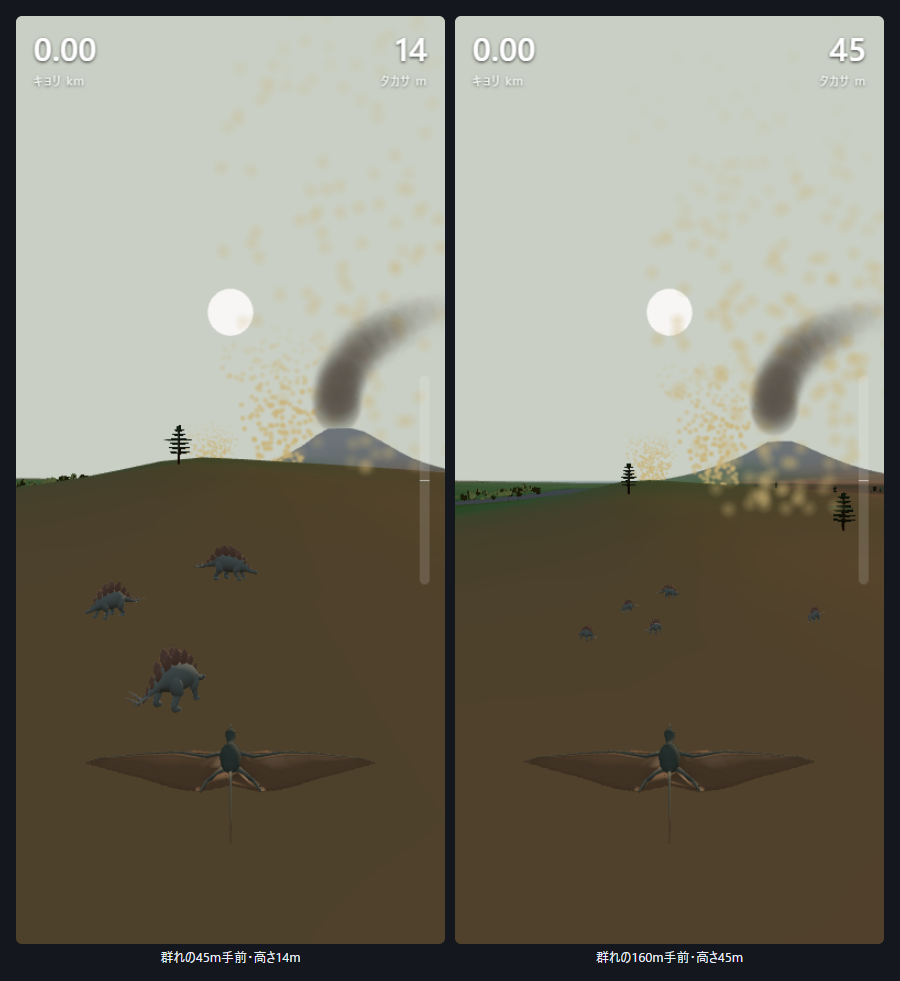
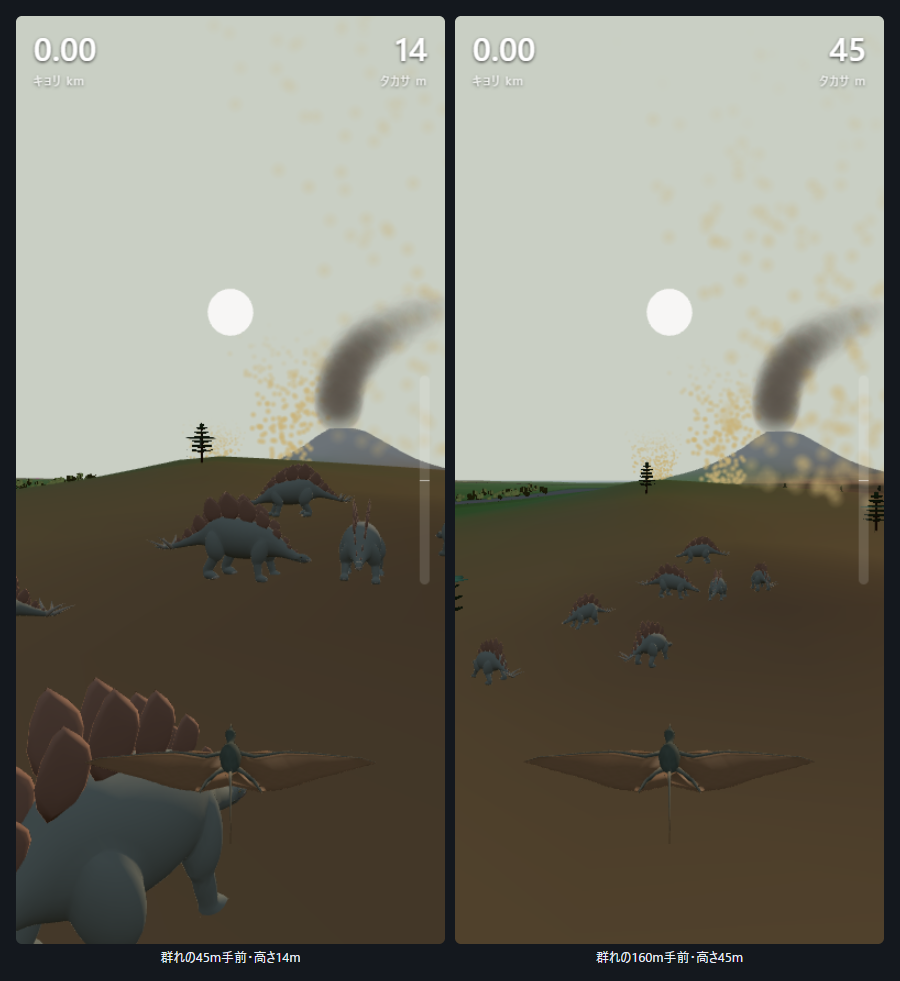
ステゴサウルスを2.5倍にして、飛行高度から見えるようにした
所長「ステゴサウルスいないんやけど」。群れの場所へ自分で移動して確認しただけで、
普通に飛んだときに見えるかを測っていなかった。

- 実測(5走行): 一番近づいても202〜1233m、実寸では画面3〜21px、8px以上で見える時間は0〜40秒
- 所長の選択で2.5倍(全長17.5m)。歩く速さも2.5倍にして足の滑りを防ぐ。見える時間 2〜152秒
- 群れは5〜10頭、広がり80m
- 途中で試した「群れの土ぼこり」は上昇気流の柱と紛らわしいので削除。
  代わりに群れのいる地面を踏み荒らされた土の色に
- tools/stego-visibility.mjs: 描画せず、飛んだ経路と群れの位置関係で見え方を測る

diff --git a/src/scene.js b/src/scene.js
@@ -50,14 +50,17 @@ class Ground {
     this.mesh.frustumCulled = false;
     this.snap = null;
   }
-  update(px, py) {
+  update(px, py, herds = []) {
     const cx = Math.round(px / this.cell) * this.cell, cy = Math.round(py / this.cell) * this.cell;
-    if (this.snap && this.snap[0] === cx && this.snap[1] === cy) return false;
+    const herdKey = herds.map(h => Math.round(h.cx) + ',' + Math.round(h.cy)).join('|');
+    if (this.snap && this.snap[0] === cx && this.snap[1] === cy && this.herdKey === herdKey) return false;
+    this.herdKey = herdKey;
     this.snap = [cx, cy];
     const t = this.t, half = this.size / 2, s = this.seg, hole = this.inner / 2;
     // ジュラ紀には草原がない。乾いた所は赤茶の土、湿った所はシダの緑、水辺は泥(黄土色の「草原」に見えていた)
     const dry = new THREE.Color(0xb0764a), wet = new THREE.Color(0x4f7d38), sand = new THREE.Color(0x7a6448);
     const canopyDry = new THREE.Color(0x22381f), canopyWet = new THREE.Color(0x3a5524);
+    const trampled = new THREE.Color(0x6d5238);
     const c = new THREE.Color();
     for (let j = 0; j <= s; j++) for (let i = 0; i <= s; i++) {
       const k = (j * (s + 1) + i) * 3;
@@ -75,6 +78,12 @@ class Ground {
       if (gv > 0.47 && z > t.water + 2) {
         const k = Math.min(1, (gv - 0.47) / 0.08) * 0.7;
         c.lerp(m < 0.5 ? canopyDry : canopyWet, k);
+      }
+      // 群れがいる所は踏み荒らされた土。上空から「あそこに何かいる」と分かる目印
+      // (土ぼこりで示したら上昇気流の柱と見分けがつかなかった)
+      for (const hd of herds) {
+        const dh = Math.hypot(x - hd.cx, y - hd.cy);
+        if (dh < 95) { c.lerp(trampled, 0.75 * (1 - dh / 95) ** 0.6); break; }
       }
       const grain = 0.92 + 0.18 * t.grain(x, y);   // 近景の手がかり(速度と向きが読める)。暗く沈めすぎない
       c.multiplyScalar(grain);
@@ -439,6 +448,7 @@ class Stegos {
   constructor(terrain, scene) {
     this.t = terrain; this.scene = scene; this.herds = new Herds(terrain);
     this.proto = null; this.clips = null; this.pool = []; this.byId = new Map(); this.ready = false;
+
   }
   async load(url) {
     const gltf = await new GLTFLoader().loadAsync(url);
@@ -460,8 +470,8 @@ class Stegos {
     return { group, model, mixer, idle, walk, animal: null, state: 'idle' };
   }
   update(px, py, dt) {
-    if (!this.ready) return;
     this.herds.update(px, py, dt);
+    if (!this.ready) return;                       // 土ぼこりはモデルの読み込み前から出す
     const list = this.herds.near(px, py, HERD.show).slice(0, 18);
     const keep = new Set(list.map(e => e.a.id));
     // 見えなくなった個体の器を空ける
@@ -476,7 +486,7 @@ class Stegos {
       e.group.visible = true;
       e.group.position.set(SX * a.x, this.t.height(a.x, a.y), a.y);
       e.group.rotation.set(0, -a.head, 0);
-      e.group.scale.setScalar(a.s);
+      e.group.scale.setScalar(a.s * HERD.scale);
       if (e.state !== a.state) {
         const to = a.state === 'walk' ? e.walk : e.idle, from = a.state === 'walk' ? e.idle : e.walk;
         if (e.state === null) { from.stop(); to.reset().play(); }
@@ -654,8 +664,9 @@ export class View {
     return [(q.x + 1) / 2 * s.x, (1 - (q.y + 1) / 2) * s.y];
   }
   update(g, dt, sun) {
-    this.far.update(g.x, g.y);
-    this.near.update(g.x, g.y);
+    const herdCenters = this.stegos ? [...this.stegos.herds.herdsNear(g.x, g.y, 9000)] : [];
+    this.far.update(g.x, g.y, herdCenters);
+    this.near.update(g.x, g.y, herdCenters);
     this.water.position.x = SX * g.x; this.water.position.z = g.y;
     this.forest.update(g.x, g.y);
     this.plumes.update(g.x, g.y, dt);

diff --git a/src/world.js b/src/world.js
@@ -302,8 +302,9 @@ export class Vegetation {
 export const HERD = {
   cell: 3000,         // 区画の大きさ [m]
   chance: 0.9,        // 区画に群れがいる確率
-  min: 3, max: 6,     // 群れの頭数
-  spread: 45,         // 群れの広がり [m]
+  min: 5, max: 10,    // 群れの頭数(小さい群れは上空から見つけられなかった)
+  spread: 80,         // 群れの広がり [m]
+  scale: 2.5,         // 見せる大きさ(全長7m -> 17.5m)。実寸だと飛行高度から数ピクセルで見えなかった
   walk: 0.21,         // 歩きの動き1回ぶんの前進の速さ [m/s](AstraのWalkクリップの値)
   timeScale: 3.0,     // 歩きの動きの再生速度。前進の速さも同じ倍率にする(足が滑らないように)
   active: 1800,       // この距離の群れだけ動かす [m]
@@ -349,7 +350,9 @@ export class Herds {
     }
   }
   update(px, py, dt) {
-    const t = this.t, v = HERD.walk * HERD.timeScale;
+    const t = this.t;
+    // 大きくすると歩幅も伸びるので、歩く速さも同じ倍率にしないと足が地面を滑る
+    const vOf = a => HERD.walk * HERD.timeScale * HERD.scale * a.s;
     for (const herd of this.herdsNear(px, py, HERD.active)) {
       for (const a of herd.animals) {
         a.timer -= dt;
@@ -374,6 +377,7 @@ export class Herds {
         while (e > Math.PI) e -= 2 * Math.PI;
         while (e < -Math.PI) e += 2 * Math.PI;
         a.head += Math.max(-0.1 * dt, Math.min(0.1 * dt, e));        // ゆっくり向きを変える(速いと足が横に滑る)
+        const v = vOf(a);
         const nx = a.x + Math.sin(a.head) * v * dt, ny = a.y + Math.cos(a.head) * v * dt;
         const h = t.height(nx, ny);
         if (h < t.water + 1.2 || t.slope(nx, ny, 10) > 0.25 || Math.hypot(a.tx - a.x, a.ty - a.y) < 3) {

diff --git a/src/main.js b/src/main.js
@@ -154,6 +154,7 @@ window.__slice = {
   forestReady: () => view.forest.ready,
   stegoReady: () => view.stegos.ready,
   herdTune: o => Object.assign(HERD, o),
+  herdScale: () => HERD.scale,
   // 検査用: 描いている個体の、骨の位置(世界座標)・状態・地面の高さ
   stegos: () => view.stegos.pool.filter(p => p.animal).map(p => {
     const w = name => { const o = p.model.getObjectByName(name); if (!o) return null; const v = o.getWorldPosition(new p.group.position.constructor()); return [v.x, v.y, v.z]; };

diff --git a/docs/FINDINGS.md b/docs/FINDINGS.md
@@ -263,3 +263,20 @@ Astraに山を頼む前に、使える寸法を決めるための試作。
 - 検査の失敗: 足の持ち上げが10cmしかなく、「接地=最低点から6cm以内」では振り出し中の足まで数えていた → 8mm以内
 
 **未決**: 実寸(全長7m)なので、ふだんの飛行高度(150〜400m)からは点にしか見えない
+
+### 見えない問題（所長「ステゴサウルスいないんやけど」 2026-09-17）
+
+私は群れの場所へ自分で移動して確認しただけで、**普通に飛んだときに見えるかを測っていなかった**。
+自動操縦で5走行した実測（tools/stego-visibility.mjs、描画せず経路と位置関係で計算）:
+
+| | 実寸(全長7m) | 2.5倍(17.5m) |
+|---|---|---|
+| 一番近づいた距離 | 202〜1233m | 180〜1219m |
+| そのときの画面上の大きさ | 3〜21px | 9〜59px |
+| 8px以上で見えていた時間 | **0〜40秒**(1走行9分) | **2〜152秒** |
+
+400m先で10px、800mで5pxしかなく、実寸では「たまたま低く真上を通ったとき」しか見えない。
+所長の選択で**2.5倍**を採用。歩く速さも同じ倍率(1.57m/s)にしないと足が滑る。
+
+途中で試して捨てた案: 群れが土ぼこりを立てる → **上昇気流の柱と見分けがつかなくなった**ので削除。
+代わりに群れのいる場所の地面を踏み荒らされた土の色に(1km先でうっすら分かる程度)。

diff --git a/README.md b/README.md
@@ -23,6 +23,8 @@ npm run dev     # http://localhost:8141
 - ところどころに**越えられない高い山**がある。回り込む
 - 翼竜は本物のモデル（RH02）、カメラは後ろ約5m。`?size=2|3` は比較用
 - 木と岩はAstraの氾濫原の原型（遠くは代わりの形）。ところどころの高い山は火山。`?notrees` で木なし
+- 川の近くの開けた平地にステゴサウルスの群れ（Astraのリグ版、見せる大きさは2.5倍）。`?nodinos` で無し
+- 着地すると減速して翼を畳み、四足で降りる
 - 既定は丘のある世界。`?world=flat` で起伏なし、`?world=ridge` で尾根の風の試作
 - 右の帯と音が上昇率。芯に近いほど高く速く鳴る
 - 日が傾くと空気は上がらなくなる。降りたところが記録
